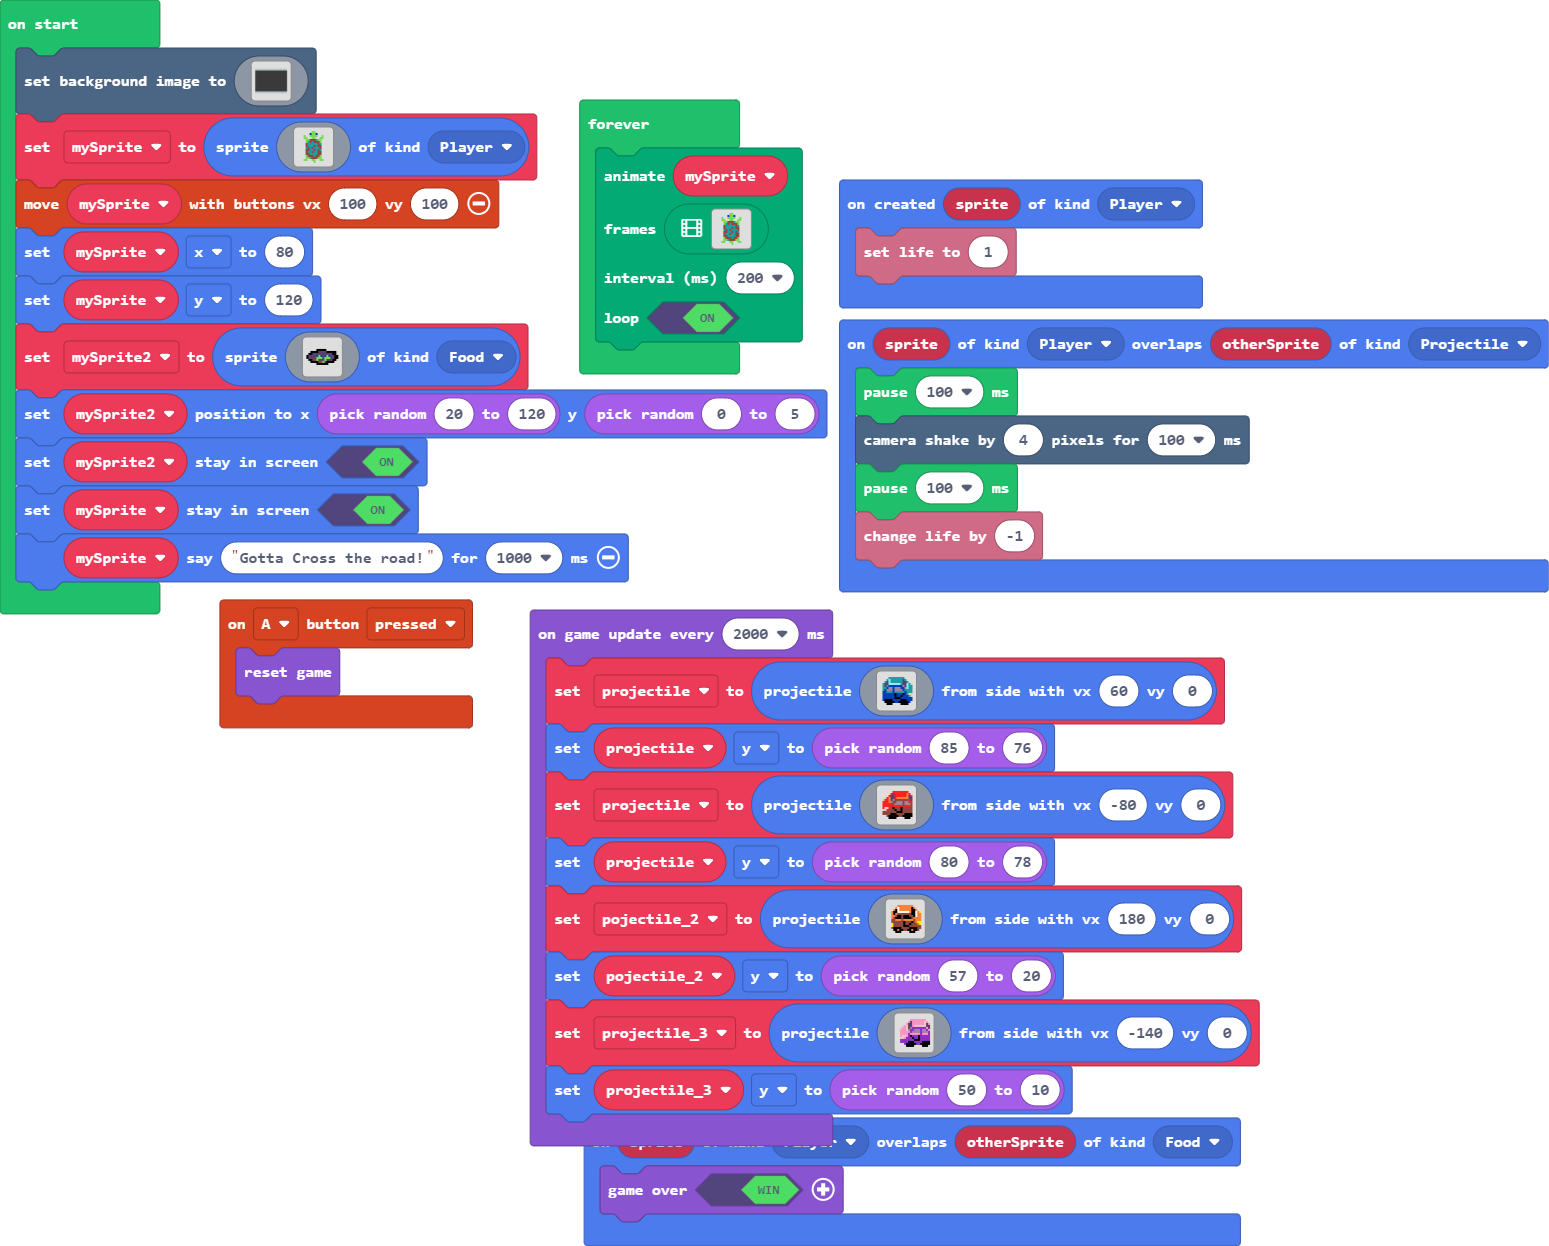
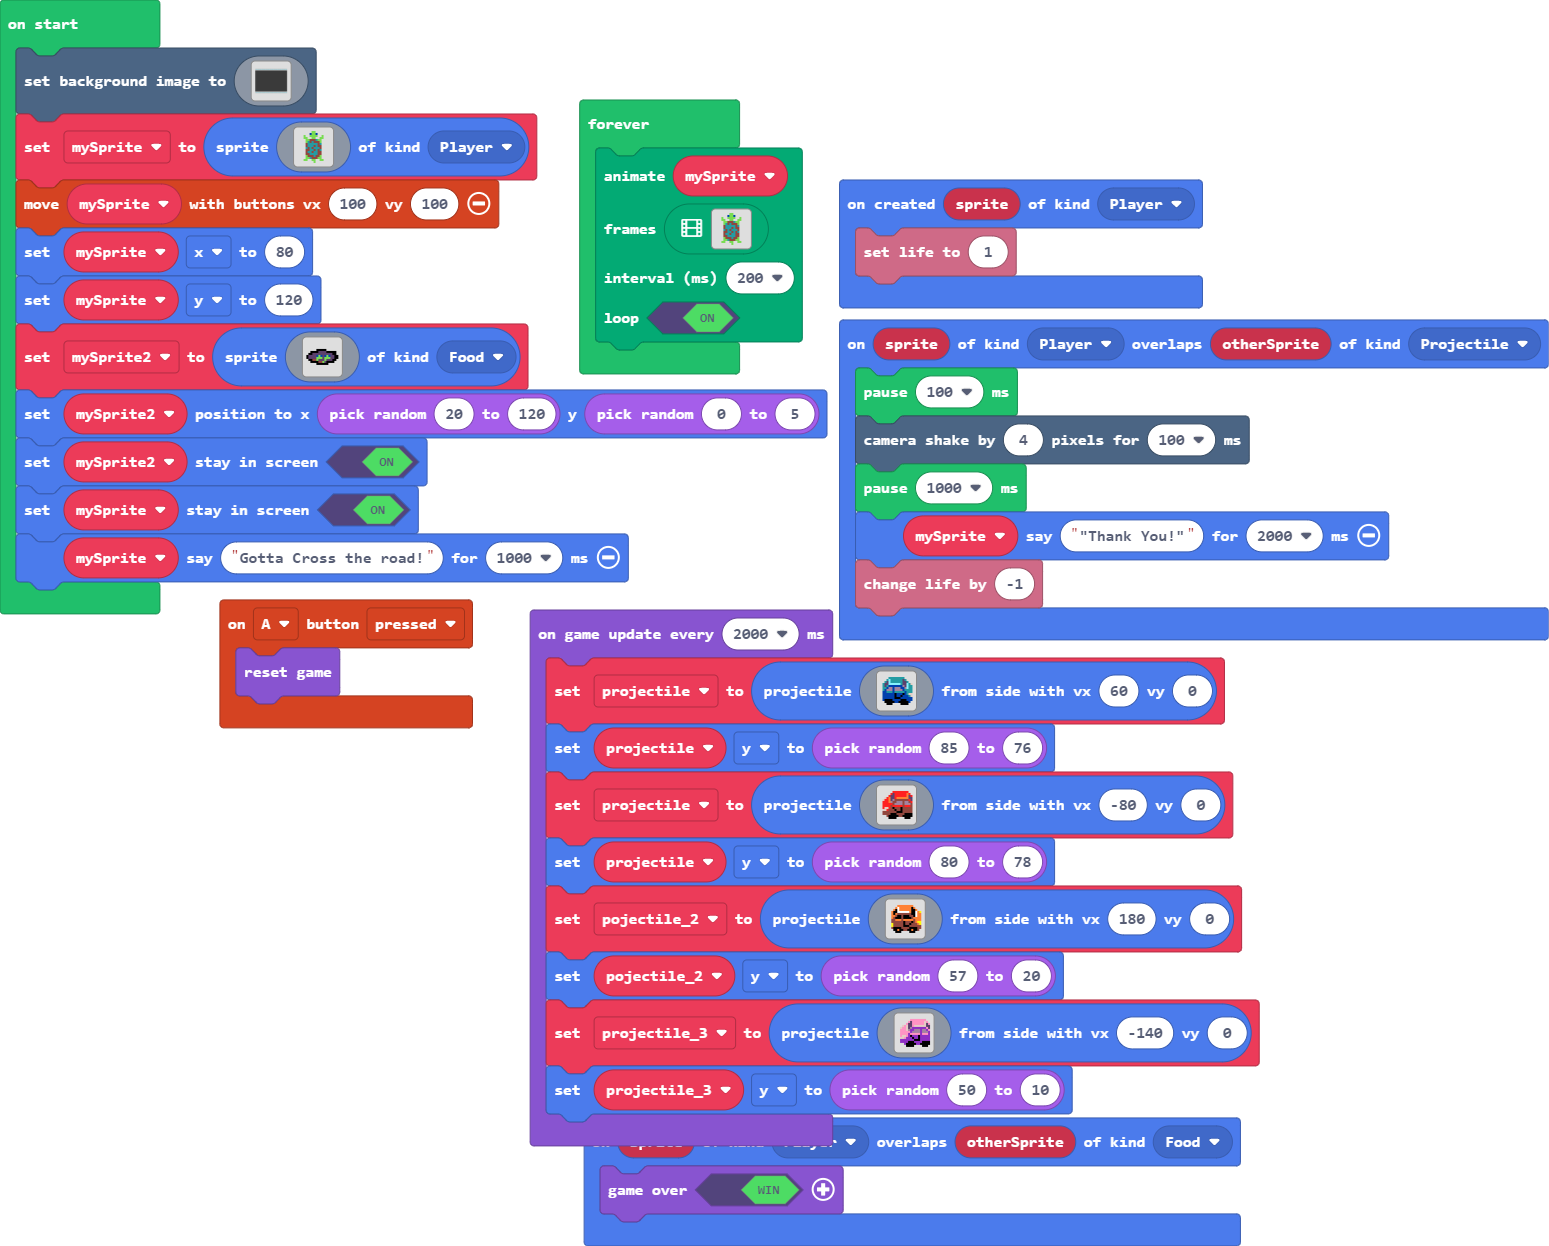
"Added Thank you" at finish

Changed region(s): [[0.5268, 0.366, 1.0, 0.5185]]

diff --git a/main.ts b/main.ts
@@ -4,7 +4,8 @@ controller.A.onEvent(ControllerButtonEvent.Pressed, function () {
 sprites.onOverlap(SpriteKind.Player, SpriteKind.Projectile, function (sprite, otherSprite) {
     pause(100)
     scene.cameraShake(4, 100)
-    pause(100)
+    pause(1000)
+    mySprite.say("\"Thank You!\"", 2000)
     info.changeLifeBy(-1)
 })
 sprites.onOverlap(SpriteKind.Player, SpriteKind.Food, function (sprite, otherSprite) {
@@ -16,8 +17,9 @@ sprites.onCreated(SpriteKind.Player, function (sprite) {
 let projectile_3: Sprite = null
 let pojectile_2: Sprite = null
 let projectile: Sprite = null
+let mySprite: Sprite = null
 scene.setBackgroundImage(assets.image`Highway`)
-let mySprite = sprites.create(assets.image`Turtle_MySprite`, SpriteKind.Player)
+mySprite = sprites.create(assets.image`Turtle_MySprite`, SpriteKind.Player)
 controller.moveSprite(mySprite, 100, 100)
 mySprite.x = 80
 mySprite.y = 120
